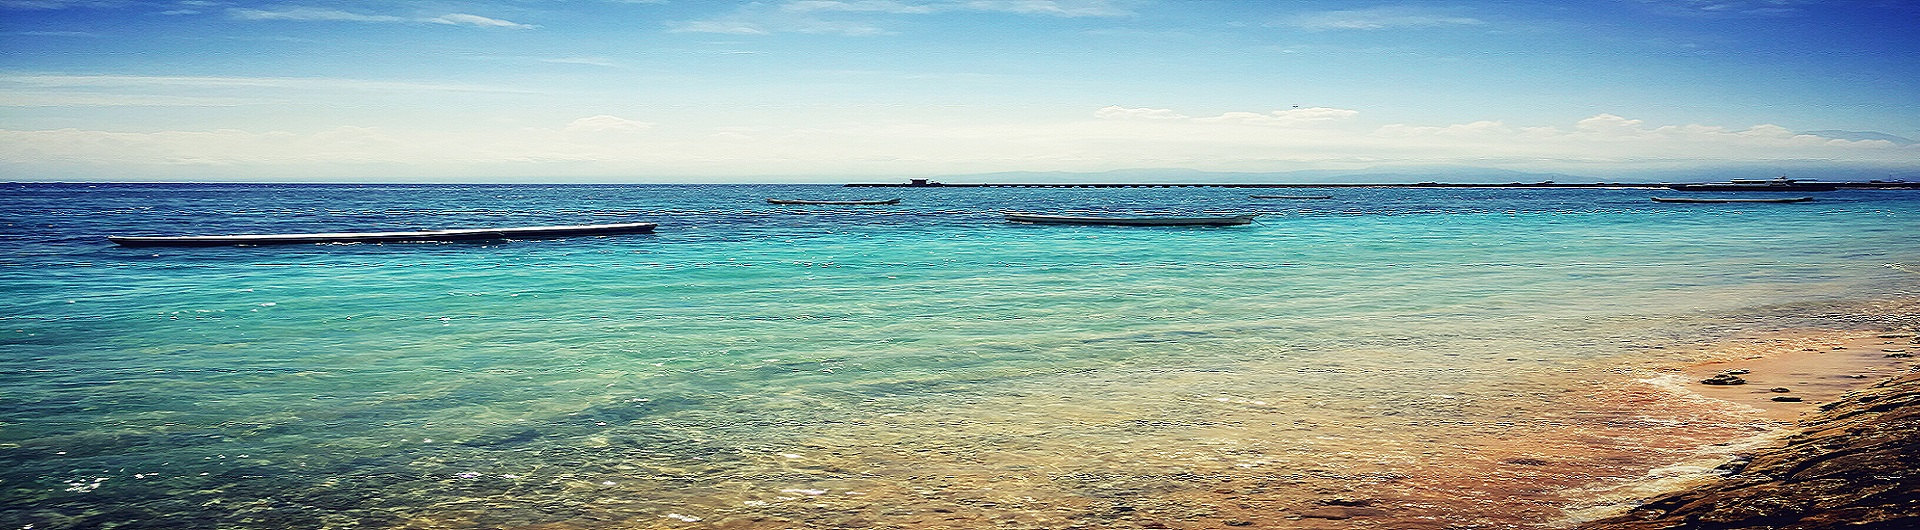
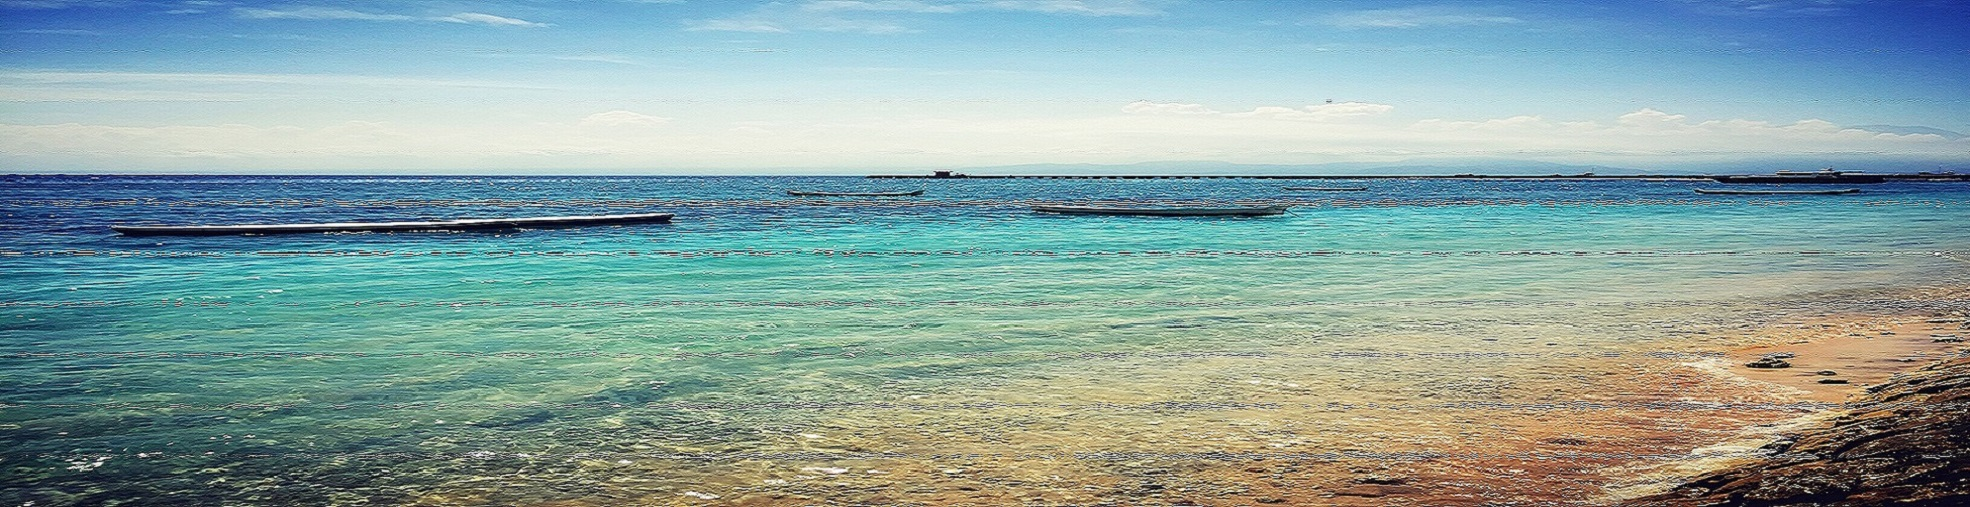
change 20180427_3

diff --git a/css/main.css b/css/main.css
@@ -11,7 +11,7 @@ body{
 
 /*设置页面主体部分*/	
 #wrapper{
-	max-width:940px;
+	max-width:950px;
 	margin:0 auto;
 	padding:5% 5%;
 	}
@@ -41,8 +41,9 @@ HEADING
 
 header{
 	float:right;
-	margin:0 0 90px 0;
-	padding:0 0;
+	margin:-7px 0 150px 0;
+	padding:0;
+	border:0;
 	width:100%;
 	}
 
@@ -62,7 +63,8 @@ h1{
 	}
 
 h2{
-	font-size:0.75em;
+	font-family:"Comic Sans MS", cursive;
+	font-size:2em;
 	margin:-5px 0 0;
 	font-weight:normal;
 	}
@@ -95,6 +97,28 @@ nav a{
 	font-weight:800;
 	padding:15px 20px;
 	}
+
+/*定义导航栏的两张照片的重叠*/
+
+.top{
+	height:50%;
+	}
+
+
+.me{
+	position:absolute;
+	top:35%;
+	left:15%;
+	border-radius:10%;
+	}
+	
+/*定义座右铭的位置*/
+.motto{
+	position:absolute;
+	top:59%;
+	left:29.5%;
+	}
+
 
 /* *******************
 FOOTER
@@ -215,7 +239,7 @@ header{
 	
 /*导航背景*/
 nav{
-	background:rgba(51,153,255,0.2);
+	background-color:rgba(51,153,255,0.2);
 	}
 	
 h1,h2{
@@ -265,3 +289,9 @@ nav a:hover{
 .drop-down:hover .drop-down-content{
 	display:block;
 	}
+	
+*{
+ 	padding:0px;
+ 	margin:0px;
+ 	border:0px;
+ }

diff --git a/about.html b/about.html
@@ -24,11 +24,10 @@
                 <li><a href = "contact.html">Contact</a></li>
             </ul>
         </nav>
-        <img src = "img/nav.png" alt = "">
+        <img src = "img/nav.png" alt = "" class="top">
     </header>
     <div id = "wrapper">
         <section>
-        	<img src = "img/myself.png" alt = "我" class="myself-photo">
             <h3>About</h3>
             <p>应该是从美赛前的一段时间，我开始慢慢自学各种语言</p>
             <p>为了研究树莓派，2018年1月开始学习Python</p>

diff --git a/index.html b/index.html
@@ -24,8 +24,10 @@
                 <li><a href = "contact.html">Contact</a></li>
             </ul>
         </nav>
-        <img src = "img/nav.png" alt = "">
+        <img src = "img/nav.png" alt = "" class="top">
+        <img src = "img/myself1.png" alt = "" class="me">
     </header>
+    <h2 class="motto">Nothing great was ever achieved without enthusiasm.</h2>
     <div id = "wrapper">
         <section>
             <ul id = "gallery">

diff --git a/contact.html b/contact.html
@@ -24,7 +24,7 @@
                 <li><a href = "contact.html" class = "selected">Contact</a></li>
             </ul>
         </nav>
-        <img src = "img/nav.png" alt = "">
+        <img src = "img/nav.png" alt = "" class="top">
     </header>
     <div id = "wrapper">
         <section id = "pramary">
